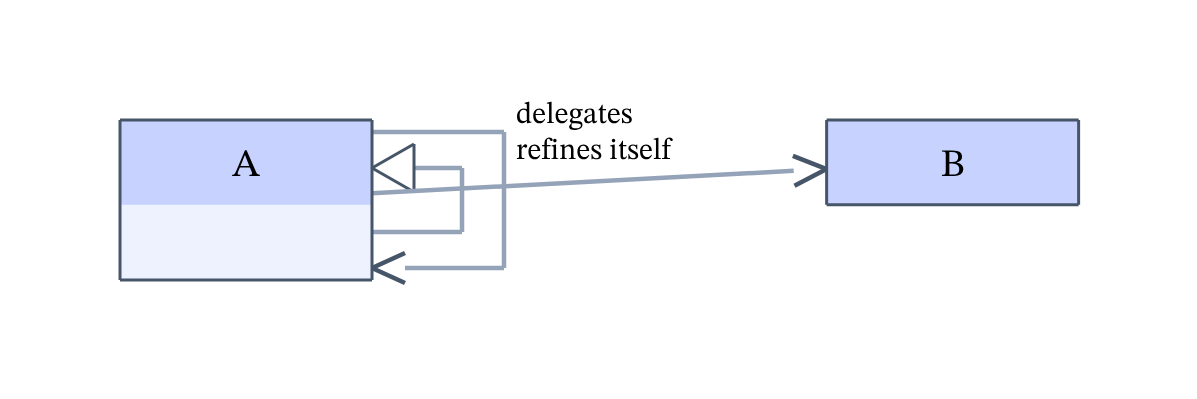
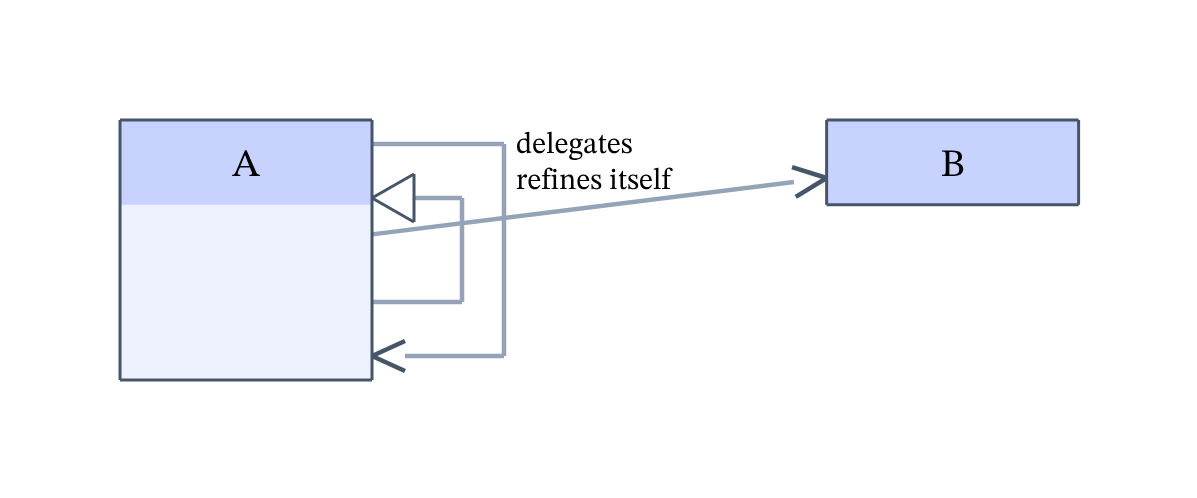
self-loop marker fixtures: playback-frame pin + over-pitch gallery cases (sirentide 275)
- Adds stackedSelfLoopMarkersStayDisjointAcrossPlaybackFrames (Lattice's 3rd
  named repair): a REAL rendered frame recolours the marker groups active-vs-
  future, and the markers are geometrically disjoint — and frame geometry is
  invariant (SvgEmitter recolours only), so static disjointness IS playback
  disjointness (the principle the leg oracle already records).
- Adds two gallery cases stacking SAME-SIDE over-pitch markers (triangles +
  diamond; ER crow-feet + bars); the pre-existing three-arrow case used 10px
  arrows that fit the old pitch and never exercised the overlap. Regenerated
  self-loop gallery pngs reflect the corrected spacing (visually verified:
  markers now cleanly separated, no overprint).

Changed region(s): [[0.0927, 0.2105, 0.9273, 0.5414], [0.0927, 0.5714, 0.4327, 0.782]]

diff --git a/src/test/java/com/sirentide/layout/SelfLoopGeometryTest.java b/src/test/java/com/sirentide/layout/SelfLoopGeometryTest.java
@@ -387,6 +387,27 @@ class SelfLoopGeometryTest {
             "2·MAX_MARKER_HALF separation removes the overlap the derived pitch is built to clear");
     }
 
+    @Test
+    void stackedSelfLoopMarkersStayDisjointAcrossPlaybackFrames() {
+        // Requirement 3 (Lattice 275): pin a REAL playback frame where no later FUTURE marker intersects
+        // the ACTIVE one. Frame GEOMETRY is invariant — renderFrames recolours the one layout, SvgEmitter
+        // only changes fills/strokes by group state — so the static marker disjointness proven above IS the
+        // playback-overpaint guarantee (the same principle the leg oracle records at
+        // assertNoCollinearOverlapAcrossGroups: "static disjointness is playback disjointness"). This pins
+        // both halves: (a) a real frame recolours the marker groups active-vs-future, and (b) the markers
+        // are geometrically disjoint, so the recolour can never overpaint one marker with another.
+        String dsl = "classDiagram\n  class A\n  A <|-- A\n  A <|-- A\n";
+        // (a) real playback: frame 0 accents the ACTIVE group (the static render carries no accent).
+        List<String> frames = Sirentide.renderFrames(dsl);
+        assertTrue(frames.get(0).contains("#e8590c"), "frame 0 accents the active self-loop marker group");
+        assertFalse(Sirentide.render(dsl).contains("#e8590c"), "the static render has no active accent");
+        // (b) geometry (identical in every frame): the two triangle footprints are disjoint.
+        LaidOut laid = ClassDiagramLayout.layout((ClassDiagram) DslParser.parse(dsl));
+        List<Group> loops = edgeGroups(laid);
+        Rect boxA = boxRects(laid, SirentideRole.CLASS).get(0);
+        assertMarkerFootprintsDisjointAcrossGroups(loops, MK, boxA.y() + boxA.height() / 2);
+    }
+
     // -- 5) tall math labels: ascent/descent participate in canvas growth ------------------------
 
     @Test

diff --git a/src/test/java/com/sirentide/BrewShotGalleryTest.java b/src/test/java/com/sirentide/BrewShotGalleryTest.java
@@ -182,6 +182,13 @@ class BrewShotGalleryTest {
             "erDiagram\nEMPLOYEE ||--o{ EMPLOYEE : manages\nEMPLOYEE ||--|| DESK : uses"),
         new Case("class-self-loops-three", "Three self-relation lanes (box grows; no collinear legs)",
             "classDiagram\nclass A\nA --> A : first\nA --> A : second\nA --> A : third"),
+        // sirentide 275: stack SAME-SIDE markers whose footprint exceeds the old 12px pitch (inheritance
+        // triangle 16, composition diamond 14, ER crow-foot 18) so the capture actually exercises marker
+        // disjointness — the three-arrow case above uses 10px arrows that fit the old pitch and hid it.
+        new Case("class-self-loops-marker-stack", "Stacked over-footprint markers (triangles + diamond)",
+            "classDiagram\nclass A\nA <|-- A : inherits\nA <|-- A : also\nA *-- A : owns"),
+        new Case("er-self-loops-stacked", "Stacked ER self-relations (crow-feet + bars, same side)",
+            "erDiagram\nA ||--o{ A : first\nA ||--o{ A : second"),
         // THE MOAT — real baked LaTeX (via the injected LatteX renderer), audited to stay in-canvas.
         new Case("mathblock", "Display math (standalone, baked LaTeX)",
             "mathblock\n\\sum_{i=1}^{n} i = \\frac{n(n+1)}{2}", REAL),

diff --git a/examples/gallery/GALLERY.md b/examples/gallery/GALLERY.md
@@ -510,6 +510,28 @@ A --> A : third
 
 ![Three self-relation lanes (box grows; no collinear legs)](class-self-loops-three.png)
 
+## Stacked over-footprint markers (triangles + diamond)
+
+```
+classDiagram
+class A
+A <|-- A : inherits
+A <|-- A : also
+A *-- A : owns
+```
+
+![Stacked over-footprint markers (triangles + diamond)](class-self-loops-marker-stack.png)
+
+## Stacked ER self-relations (crow-feet + bars, same side)
+
+```
+erDiagram
+A ||--o{ A : first
+A ||--o{ A : second
+```
+
+![Stacked ER self-relations (crow-feet + bars, same side)](er-self-loops-stacked.png)
+
 ## Display math (standalone, baked LaTeX)
 
 ```